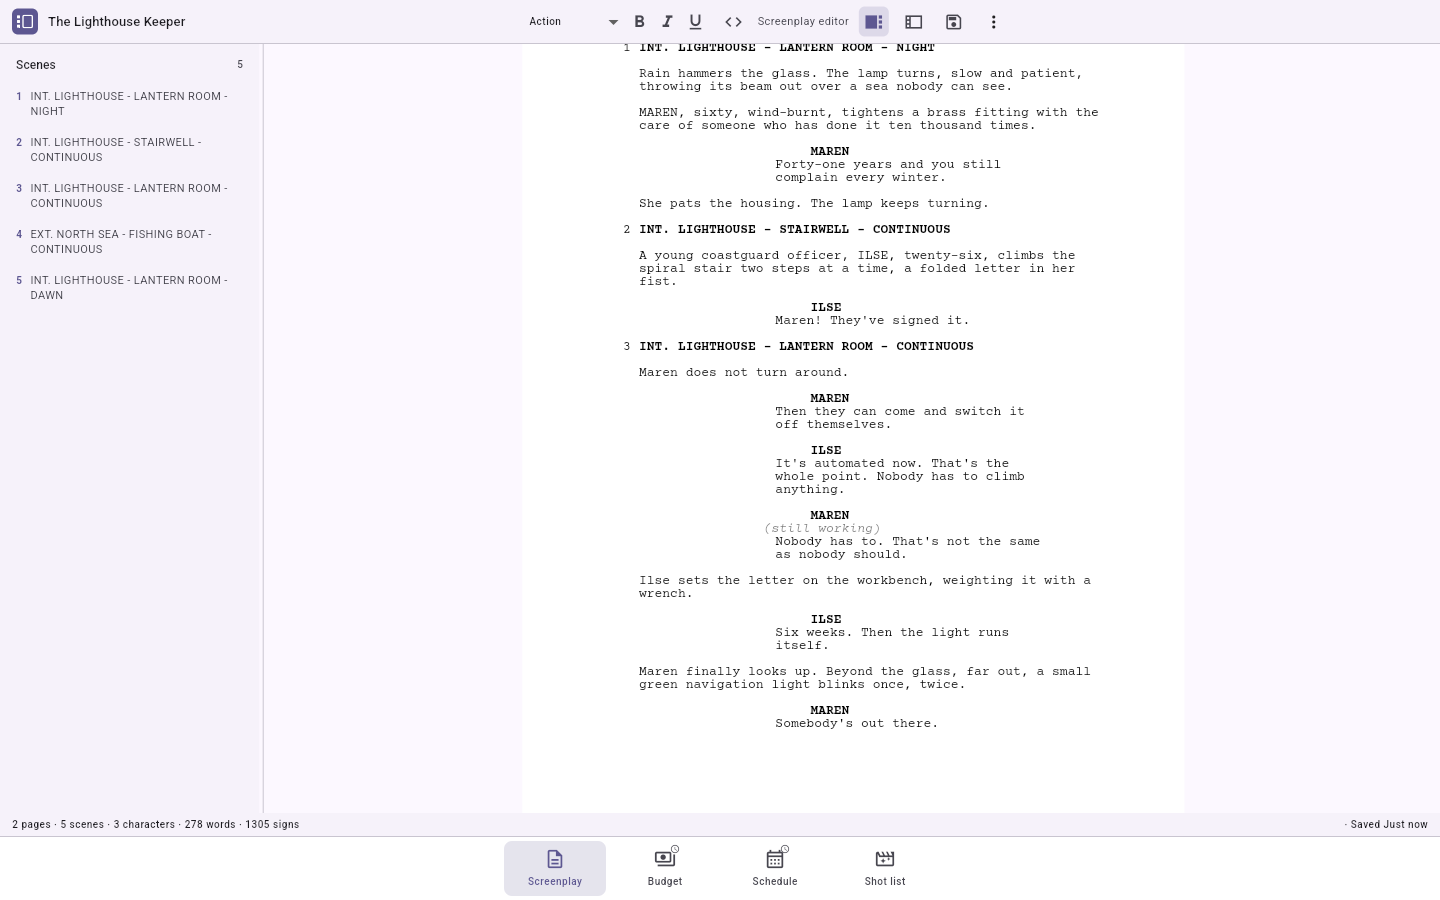
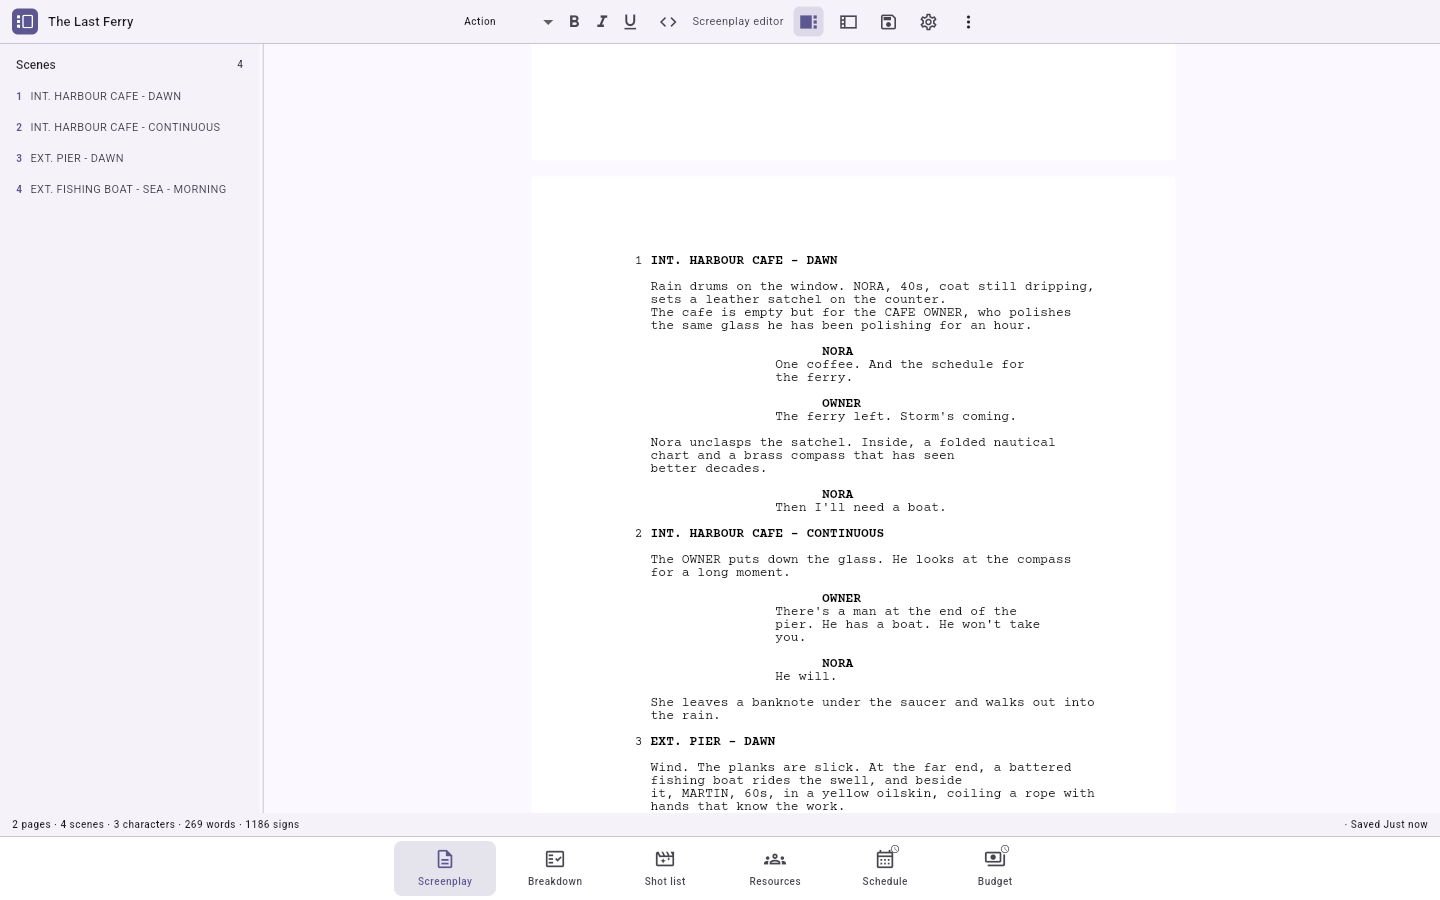
docs: show the app as it looks today
The three screenshots predated the workspace refactor: their mode switcher
still offers four modes in the old order, and the toolbar has no project
settings action. Recapture them against one demo project, add the breakdown
mode's two views and the resources catalogue the pass fills, and drop the
roadmap entry the breakdown mode has now answered.

Claude-Session: https://claude.ai/code/session_01T7baRPjuRgXw5jaBPMJWQx

diff --git a/README.md b/README.md
@@ -48,21 +48,34 @@ status bar.
 
 ![The screenplay editor showing a formatted screenplay, with a scene list docked on the left](docs/screenshots/screenplay-editor.png)
 
-The raw Fountain mode, with the paper-simulated preview and the docked syntax guide beside it.
+The raw Fountain mode, with the paper-simulated preview beside it.
 
 ![The Fountain source on the left, its rendered screenplay preview on the right](docs/screenshots/fountain-source-and-preview.png)
 
-The shot list mode, here in the dark theme: one sequence per scene, and a shot table whose columns
-you choose.
+The breakdown mode: the script read as a page, every word clickable, and each tagged passage
+highlighted in the colour of the category it belongs to.
 
-![The shot list showing three shots with their characters, shot size, framing and camera move](docs/screenshots/shot-list-dark.png)
+![The breakdown script view, with tagged passages highlighted in their category's colour](docs/screenshots/breakdown-script.png)
+
+The same pass seen as a table: one row per element, character or set, one column per scene.
+
+![The breakdown recap, a cross-table of every tagged target against the four scenes](docs/screenshots/breakdown-recap.png)
+
+The resources mode, on the catalogue the breakdown fills: each element with its code, where it
+comes from, and the scenes that need it.
+
+![The elements tab of the resources mode, coded elements listed on the left](docs/screenshots/resources-elements.png)
+
+The shot list mode: one sequence per scene, and a shot table whose columns you choose.
+
+![The shot list showing four shots with their characters, shot size, framing and camera move](docs/screenshots/shot-list.png)
 
 ## Features
 
 What the app does today:
 
 - A workspace shell around the open project - toolbar, resizable side docks, status bar - with a
-  bottom mode switcher for the production tools. Screenplay, shot list and resources are
+  bottom mode switcher for the production tools. Screenplay, breakdown, shot list and resources are
   implemented; schedule and budget are still empty states (see [Roadmap](#roadmap)). Dock sizes and
   the mode you were last in come back with the project.
 - A styled WYSIWYG screenplay mode with the real page layout: a block-type dropdown, Tab cycling
@@ -72,6 +85,14 @@ What the app does today:
   syntax guide in the right dock.
 - A scene dock to navigate the screenplay, and live statistics in the status bar: pages, scenes,
   characters, words and signs.
+- A breakdown mode (dépouillement): the script read once, as a page, tagging what the shoot must
+  provide. Two clicks mark a passage and a popover links it to an element, a character or a set -
+  or creates the element, in its category, in one write. A character is never invented here: it is
+  the role the screenplay already named. Every tag is stored with its passage verbatim, so an edit
+  that shifts it is followed automatically when the words are still there once, and flagged for you
+  only when they are not. The same pass reads as a cross-table, one row per target and one column
+  per scene, and every scene carries its own progress and its own sheet. Exports the breakdown
+  sheets to PDF, one per scene.
 - A shot list mode (découpage technique): one sequence per scene, a shot table whose columns you
   choose, and a shot inspector for shot size, framing, camera move, lens, recording format, sound,
   estimated duration, planned takes, shooting day, status, notes, and difficulty rated separately
@@ -86,15 +107,19 @@ What the app does today:
   they may be shot in, and a catalogue of everything that has to be on set and is not a person -
   props, costumes, vehicles, equipment - with who owns it, who brings it and whether it is secured,
   ready or already back. Scenes are linked to the sets they are shot in and to the elements they
-  need. Photos and signed documents are referenced by path rather than copied into the project
-  file. Exports to XLSX, one sheet per tab.
+  need. Elements and sets carry a code the app mints itself (`PRP-3`, `A`) rather than one you have
+  to type and keep unique. Photos and signed documents are referenced by path rather than copied
+  into the project file. Exports to XLSX, one sheet per tab.
+- Project versions: named, permanent checkpoints of the whole project, previewed read-only before
+  you commit to anything and restored as an edit rather than a reset - the state a restore replaces
+  is itself kept as a version, so going back is never a one-way door.
 - A scenario coverage export: the screenplay printed as usual, with a coloured bar in the margin
   alongside every passage each shot covers, the passages no shot covers washed grey, and optional
   legend and summary pages - so you can see, page by page, what your découpage still leaves out.
 - `.fountain` import and export.
 - PDF export with an options dialog, page numbers, optional scene numbers, and embedded Courier
   Prime.
-- Page setup: page format and margins.
+- Page setup: page format and margins, and a per-project currency.
 - Autosave.
 - English (`en_GB`) and French interfaces.
 - A system-following light/dark theme.
@@ -108,7 +133,6 @@ Planned production tools, in priority order:
 - Budget
 - Script supervisor reports
 - Storyboard
-- A per-scene breakdown screen
 - Casting tracker
 
 ## Platforms
